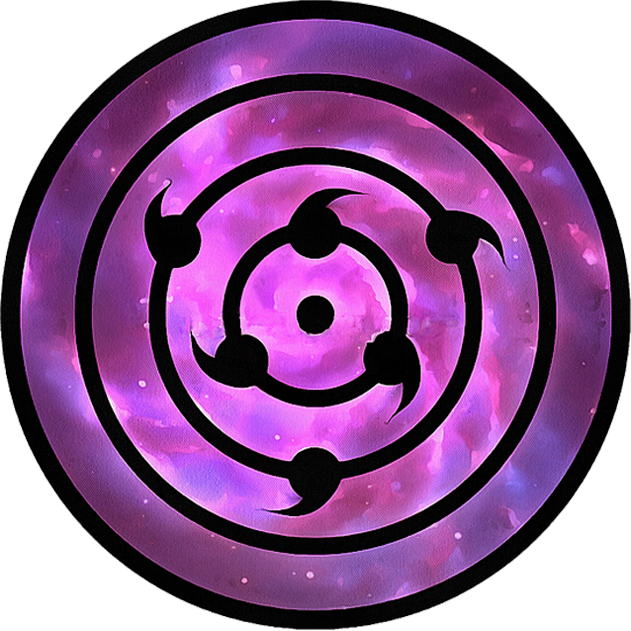
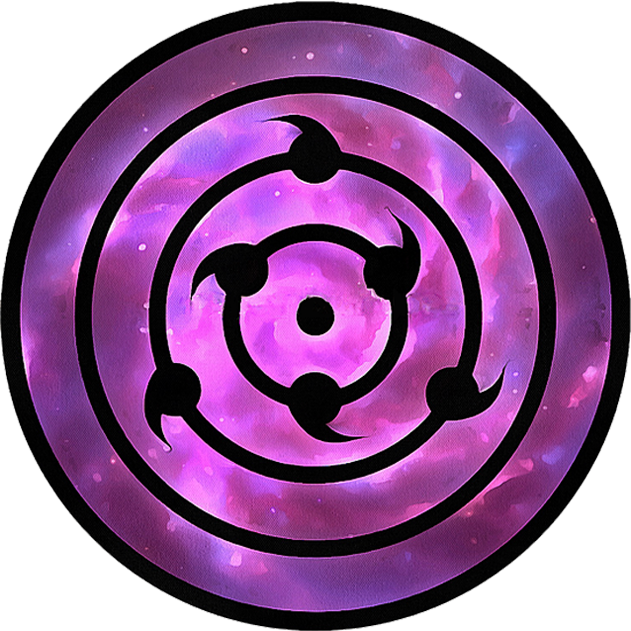
update new version

diff --git a/AudioVisualizer/style.css b/AudioVisualizer/style.css
@@ -5,8 +5,12 @@ body {
 	margin: 0;
 	overflow-x: hidden;
 	overflow-y: hidden;
-	font-family: Poppins;
+	font-family: Ninja;
 }
+@font-face {
+	font-family:Ninja;
+	src:url('./font/njnaruto.ttf');
+   }
 
 #equalizer {
 	width: 100vw;
@@ -23,8 +27,18 @@ body {
 	top: 5%;
 	z-index: 10;
 	color: white;
+	text-shadow: -3px 0 purple, 0 3px purple, 3px 0 purple, 0 -3px purple;
 }
-
+#bar1{
+	width: 100%;
+	height: 100%;
+	position: absolute;
+	background: rgba(0, 0, 0);
+	opacity: 0.4;
+	top: 0;
+	left: 0;
+	z-index: 1;
+}
 video {
 	position: absolute;
 	height: auto;
@@ -36,12 +50,13 @@ video {
 }
 
 #bar10 {
+	z-index: 5;
 	height: 20vh;
 	width: 20vh;
 	border-radius: 50%;
 	border: 5px solid purple;
 	animation: rotate 20s linear infinite;
-	-webkit-animation: rotate 20s linear infinite;
+	-webkit-animation: rotate 10s linear infinite;
 	position: relative;
 	overflow: hidden;
 }
@@ -77,11 +92,6 @@ video {
 	}
 }
 
-
-#bar10:hover {
-	animation-duration: 2s;
-	-webkit-animation-duration: 2s;
-}
 
 .glitch-image:nth-child(1) {
 	opacity: 1;

diff --git a/AudioVisualizer/script.js b/AudioVisualizer/script.js
@@ -1,5 +1,6 @@
 
 const play = document.querySelector('body');
+
 var isPlay = false;
 var offsetHeight = document.getElementById('bar10').offsetHeight;
 play.addEventListener('click', () => {
@@ -30,11 +31,24 @@ function start() {
 			const audioValue = audioDataArray[ndx] / 255;
 			// draw a rect size by size big
 			const y = audioValue * 40;
-			document.getElementById("bar" + x).style.height = y + offsetHeight/6 + "vh";
-			document.getElementById("bar" + x).style.width = y + offsetHeight/6 + "vh";
+			
+			if(x != 1){
+				document.getElementById("bar" + x).style.height = y + offsetHeight/6 + "vh";
+				document.getElementById("bar" + x).style.width = y + offsetHeight/6 + "vh";
+				
+			}
+			else
+			{
+				const opacity = 0.4 + (y /60) ;
+				document.getElementById("bar" + x).style.opacity = opacity;
+				
+			}
+			
 			/*
 			document.getElementById("bar" + x).style.animationDuration = 20 - y / 7 + "s";*/
 		}
+		
+		
 		requestAnimationFrame(render);
 	}
 	requestAnimationFrame(render);

diff --git a/AudioVisualizer/index.html b/AudioVisualizer/index.html
@@ -3,7 +3,7 @@
 
 <head>
 	<meta charset="UTF-8">
-	<title>Naruto Equalizer</title>
+	<title>Audio Visualizer</title>
 	<link rel="stylesheet" href="./style.css">
 	<link rel="stylesheet" href="./reponsive.css">
 	<link rel="preconnect" href="https://fonts.googleapis.com">
@@ -18,7 +18,7 @@
 			<source src="paint.mp4" type="video/mp4">
 			<source src="paint.mp4"type="video/ogg">
 		  </video>
-		<div id="bar1" class="bar hidden"></div>
+		<div id="bar1" class="bar"></div>
 		<div id="bar2" class="bar hidden"></div>
 		<div id="bar3" class="bar hidden"></div>
 		<div id="bar4" class="bar hidden"></div>
